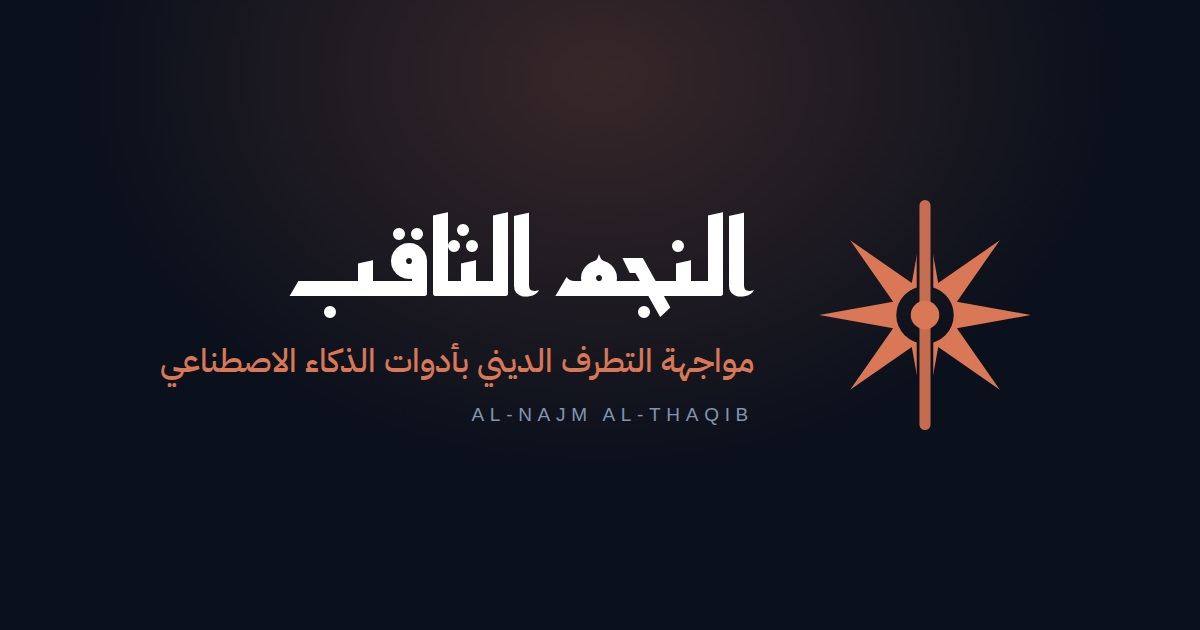
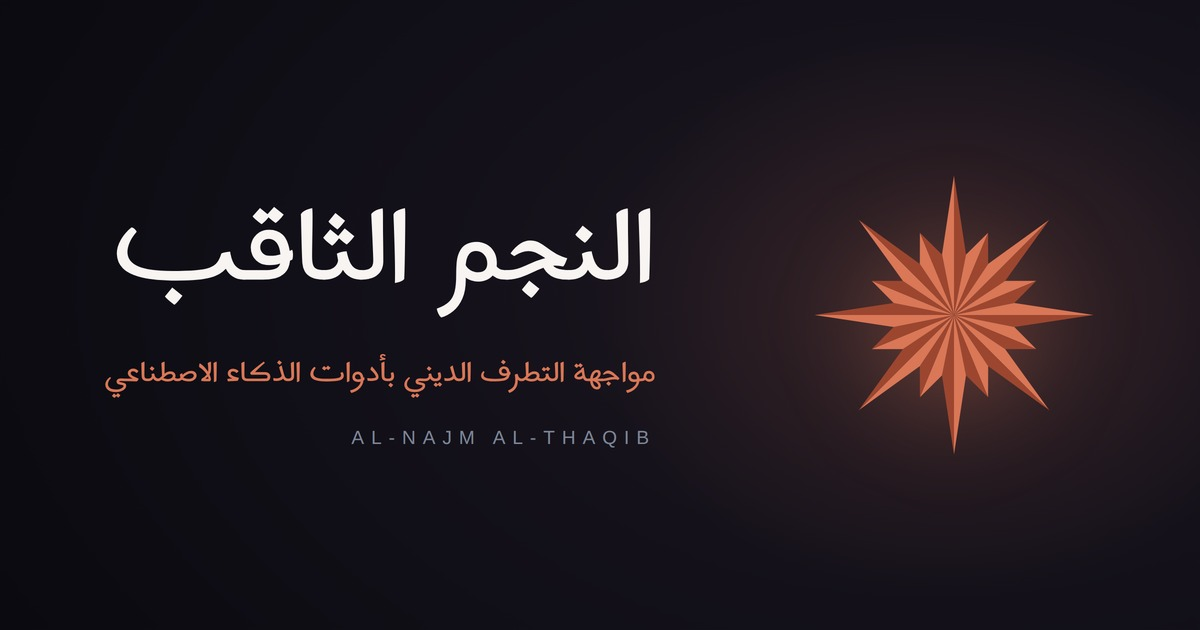
Add files via upload
تغيير الشعار والخط

diff --git a/index.html b/index.html
@@ -17,10 +17,11 @@
 <meta name="twitter:card" content="summary_large_image">
 <meta name="twitter:image" content="https://alibennor1996-bit.github.io/najm/najm-banner.jpg">
 <link rel="icon" href="favicon.svg" type="image/svg+xml">
+<link rel="alternate icon" href="favicon.ico" sizes="any">
 <link rel="apple-touch-icon" href="najm-favicon.png">
 <link rel="preconnect" href="https://fonts.googleapis.com">
 <link rel="preconnect" href="https://fonts.gstatic.com" crossorigin>
-<link rel="stylesheet" href="https://fonts.googleapis.com/css2?family=Reem+Kufi:wght@400;500;600;700&family=IBM+Plex+Sans+Arabic:wght@400;500;600&family=IBM+Plex+Sans:wght@400;500;600&display=swap">
+<link rel="stylesheet" href="https://fonts.googleapis.com/css2?family=Harmattan:wght@400;700&family=IBM+Plex+Sans+Arabic:wght@400;500;600&family=IBM+Plex+Sans:wght@400;500;600&display=swap">
 <style>
 :root{
  --ground:#F5F7FA; --surface:#FFFFFF; --surface-2:#EAEFF6;
@@ -56,7 +57,7 @@ svg{display:block}
 a{color:var(--accent)}
 button{font:inherit;cursor:pointer}
 :focus-visible{outline:2px solid var(--accent-bright);outline-offset:3px;border-radius:3px}
-h1,h2,h3,h4{font-family:"Reem Kufi","IBM Plex Sans",sans-serif;font-weight:600;text-wrap:balance;margin:0}
+h1,h2,h3,h4{font-family:"Harmattan","IBM Plex Sans",sans-serif;font-weight:600;text-wrap:balance;margin:0}
 body.lang-en h1,body.lang-en h2,body.lang-en h3,body.lang-en h4{font-family:"IBM Plex Sans",sans-serif;letter-spacing:-.012em}
 .wrap{max-width:1020px;margin:0 auto;padding:0 22px}
 .mark > path,.mark > rect,.mark > circle{fill:var(--accent-bright)}
@@ -64,7 +65,7 @@ body.lang-en h1,body.lang-en h2,body.lang-en h3,body.lang-en h4{font-family:"IBM
 .bar{position:sticky;top:0;z-index:40;background:color-mix(in srgb,var(--ground) 90%,transparent);backdrop-filter:blur(12px);border-bottom:1px solid var(--line)}
 .bar-in{max-width:1020px;margin:0 auto;padding:11px 22px;display:flex;align-items:center;gap:18px}
 .brand{display:flex;align-items:center;gap:9px;text-decoration:none;color:var(--ink);flex:0 0 auto}
-.brand b{font-family:"Reem Kufi",sans-serif;font-size:18px;font-weight:600}
+.brand b{font-family:"Harmattan",sans-serif;font-size:18px;font-weight:600}
 body.lang-en .brand b{font-family:"IBM Plex Sans",sans-serif;font-size:16px}
 .bar nav{display:flex;gap:2px;flex:1 1 auto;overflow-x:auto;scrollbar-width:none}
 .bar nav::-webkit-scrollbar{display:none}
@@ -99,13 +100,13 @@ section{padding:64px 0;border-bottom:1px solid var(--line);scroll-margin-top:60p
 
 .pillars{display:grid;gap:14px;grid-template-columns:repeat(auto-fit,minmax(280px,1fr));margin:26px 0 0}
 .pillar{background:var(--surface);border:1px solid var(--line);border-radius:2px;padding:22px}
-.pillar-n{font-family:"Reem Kufi",sans-serif;font-size:15px;color:var(--accent);display:block;margin-bottom:6px;font-weight:600}
+.pillar-n{font-family:"Harmattan",sans-serif;font-size:15px;color:var(--accent);display:block;margin-bottom:6px;font-weight:600}
 .pillar h3{font-size:19px;margin:0 0 9px}
 .pillar p{margin:0;font-size:14px;line-height:1.75;color:var(--ink-soft)}
 
 .steps{list-style:none;margin:26px 0 0;padding:0;display:grid;gap:2px}
 .step{display:flex;gap:16px;align-items:flex-start;background:var(--surface);border:1px solid var(--line);padding:18px 20px}
-.step-n{font-family:"Reem Kufi",sans-serif;font-size:22px;font-weight:700;color:var(--accent);flex:0 0 28px;line-height:1.3}
+.step-n{font-family:"Harmattan",sans-serif;font-size:22px;font-weight:700;color:var(--accent);flex:0 0 28px;line-height:1.3}
 .step h4{font-size:16px;margin:0 0 4px}
 .step p{margin:0;font-size:14px;color:var(--ink-soft);max-width:70ch}
 .crossref{margin:24px 0 0;padding:20px 22px;background:var(--surface);border:1px solid var(--line);
@@ -145,7 +146,7 @@ section{padding:64px 0;border-bottom:1px solid var(--line);scroll-margin-top:60p
 /* ---------- analyser (an-) ---------- */
 .an-tabs{display:flex;gap:6px;margin:24px 0 0;border-bottom:1px solid var(--line)}
 .an-tab{background:none;border:0;padding:9px 16px;font-size:14.5px;font-weight:500;color:var(--ink-faint);
- border-bottom:2px solid transparent;margin-bottom:-1px;font-family:"Reem Kufi",sans-serif}
+ border-bottom:2px solid transparent;margin-bottom:-1px;font-family:"Harmattan",sans-serif}
 body.lang-en .an-tab{font-family:"IBM Plex Sans",sans-serif}
 .an-tab[aria-selected="true"]{color:var(--ink);border-bottom-color:var(--accent-bright)}
 .an-panel[hidden]{display:none}
@@ -164,7 +165,7 @@ body.lang-en .an-tab{font-family:"IBM Plex Sans",sans-serif}
 .an-score{background:var(--surface);border:1px solid var(--line);border-radius:2px;padding:18px 20px;margin:0 0 14px}
 .an-top{display:flex;gap:14px;align-items:baseline;flex-wrap:wrap}
 .an-score h3{font-size:19px}
-.an-num{font-family:"Reem Kufi",sans-serif;font-size:34px;font-weight:700;color:var(--accent);line-height:1;font-variant-numeric:tabular-nums}
+.an-num{font-family:"Harmattan",sans-serif;font-size:34px;font-weight:700;color:var(--accent);line-height:1;font-variant-numeric:tabular-nums}
 .an-of{font-size:12.5px;color:var(--ink-faint)}
 .an-meter{margin:12px 0 0;height:7px;background:var(--surface-2);border-radius:99px;overflow:hidden}
 .an-meter i{display:block;height:100%;background:var(--accent-bright);border-radius:99px;transition:width .5s cubic-bezier(.2,.7,.3,1)}
@@ -203,10 +204,57 @@ footer{padding:34px 0 60px}
 </style>
 </head>
 <body class="lang-ar">
+<svg width="0" height="0" style="position:absolute" aria-hidden="true" focusable="false"><defs><symbol id="najm-mark" viewBox="0 0 512 512"><path fill="var(--mk-a,#D97757)" d="M256.00,18.00 L235.52,153.02 L256.00,256.00 Z"/>
+    <path fill="var(--mk-b,#AF5029)" d="M256.00,18.00 L256.00,256.00 L276.48,153.02 Z"/>
+    <path fill="var(--mk-a,#D97757)" d="M314.17,115.57 L276.48,153.02 L256.00,256.00 Z"/>
+    <path fill="var(--mk-b,#AF5029)" d="M314.17,115.57 L256.00,256.00 L314.33,168.70 Z"/>
+    <path fill="var(--mk-a,#D97757)" d="M418.63,93.37 L314.33,168.70 L256.00,256.00 Z"/>
+    <path fill="var(--mk-b,#AF5029)" d="M418.63,93.37 L256.00,256.00 L343.30,197.67 Z"/>
+    <path fill="var(--mk-a,#D97757)" d="M396.43,197.83 L343.30,197.67 L256.00,256.00 Z"/>
+    <path fill="var(--mk-b,#AF5029)" d="M396.43,197.83 L256.00,256.00 L358.98,235.52 Z"/>
+    <path fill="var(--mk-a,#D97757)" d="M494.00,256.00 L358.98,235.52 L256.00,256.00 Z"/>
+    <path fill="var(--mk-b,#AF5029)" d="M494.00,256.00 L256.00,256.00 L358.98,276.48 Z"/>
+    <path fill="var(--mk-a,#D97757)" d="M396.43,314.17 L358.98,276.48 L256.00,256.00 Z"/>
+    <path fill="var(--mk-b,#AF5029)" d="M396.43,314.17 L256.00,256.00 L343.30,314.33 Z"/>
+    <path fill="var(--mk-a,#D97757)" d="M418.63,418.63 L343.30,314.33 L256.00,256.00 Z"/>
+    <path fill="var(--mk-b,#AF5029)" d="M418.63,418.63 L256.00,256.00 L314.33,343.30 Z"/>
+    <path fill="var(--mk-a,#D97757)" d="M314.17,396.43 L314.33,343.30 L256.00,256.00 Z"/>
+    <path fill="var(--mk-b,#AF5029)" d="M314.17,396.43 L256.00,256.00 L276.48,358.98 Z"/>
+    <path fill="var(--mk-a,#D97757)" d="M256.00,494.00 L276.48,358.98 L256.00,256.00 Z"/>
+    <path fill="var(--mk-b,#AF5029)" d="M256.00,494.00 L256.00,256.00 L235.52,358.98 Z"/>
+    <path fill="var(--mk-a,#D97757)" d="M197.83,396.43 L235.52,358.98 L256.00,256.00 Z"/>
+    <path fill="var(--mk-b,#AF5029)" d="M197.83,396.43 L256.00,256.00 L197.67,343.30 Z"/>
+    <path fill="var(--mk-a,#D97757)" d="M93.37,418.63 L197.67,343.30 L256.00,256.00 Z"/>
+    <path fill="var(--mk-b,#AF5029)" d="M93.37,418.63 L256.00,256.00 L168.70,314.33 Z"/>
+    <path fill="var(--mk-a,#D97757)" d="M115.57,314.17 L168.70,314.33 L256.00,256.00 Z"/>
+    <path fill="var(--mk-b,#AF5029)" d="M115.57,314.17 L256.00,256.00 L153.02,276.48 Z"/>
+    <path fill="var(--mk-a,#D97757)" d="M18.00,256.00 L153.02,276.48 L256.00,256.00 Z"/>
+    <path fill="var(--mk-b,#AF5029)" d="M18.00,256.00 L256.00,256.00 L153.02,235.52 Z"/>
+    <path fill="var(--mk-a,#D97757)" d="M115.57,197.83 L153.02,235.52 L256.00,256.00 Z"/>
+    <path fill="var(--mk-b,#AF5029)" d="M115.57,197.83 L256.00,256.00 L168.70,197.67 Z"/>
+    <path fill="var(--mk-a,#D97757)" d="M93.37,93.37 L168.70,197.67 L256.00,256.00 Z"/>
+    <path fill="var(--mk-b,#AF5029)" d="M93.37,93.37 L256.00,256.00 L197.67,168.70 Z"/>
+    <path fill="var(--mk-a,#D97757)" d="M197.83,115.57 L197.67,168.70 L256.00,256.00 Z"/>
+    <path fill="var(--mk-b,#AF5029)" d="M197.83,115.57 L256.00,256.00 L235.52,153.02 Z"/></symbol><symbol id="najm-mark-sm" viewBox="0 0 512 512"><path fill="var(--mk-a,#D97757)" d="M256.00,12.00 L223.09,176.55 L256.00,256.00 Z"/>
+    <path fill="var(--mk-b,#AF5029)" d="M256.00,12.00 L256.00,256.00 L288.91,176.55 Z"/>
+    <path fill="var(--mk-a,#D97757)" d="M394.59,117.41 L288.91,176.55 L256.00,256.00 Z"/>
+    <path fill="var(--mk-b,#AF5029)" d="M394.59,117.41 L256.00,256.00 L335.45,223.09 Z"/>
+    <path fill="var(--mk-a,#D97757)" d="M500.00,256.00 L335.45,223.09 L256.00,256.00 Z"/>
+    <path fill="var(--mk-b,#AF5029)" d="M500.00,256.00 L256.00,256.00 L335.45,288.91 Z"/>
+    <path fill="var(--mk-a,#D97757)" d="M394.59,394.59 L335.45,288.91 L256.00,256.00 Z"/>
+    <path fill="var(--mk-b,#AF5029)" d="M394.59,394.59 L256.00,256.00 L288.91,335.45 Z"/>
+    <path fill="var(--mk-a,#D97757)" d="M256.00,500.00 L288.91,335.45 L256.00,256.00 Z"/>
+    <path fill="var(--mk-b,#AF5029)" d="M256.00,500.00 L256.00,256.00 L223.09,335.45 Z"/>
+    <path fill="var(--mk-a,#D97757)" d="M117.41,394.59 L223.09,335.45 L256.00,256.00 Z"/>
+    <path fill="var(--mk-b,#AF5029)" d="M117.41,394.59 L256.00,256.00 L176.55,288.91 Z"/>
+    <path fill="var(--mk-a,#D97757)" d="M12.00,256.00 L176.55,288.91 L256.00,256.00 Z"/>
+    <path fill="var(--mk-b,#AF5029)" d="M12.00,256.00 L256.00,256.00 L176.55,223.09 Z"/>
+    <path fill="var(--mk-a,#D97757)" d="M117.41,117.41 L176.55,223.09 L256.00,256.00 Z"/>
+    <path fill="var(--mk-b,#AF5029)" d="M117.41,117.41 L256.00,256.00 L223.09,176.55 Z"/></symbol></defs></svg>
 
 <div class="bar">
   <div class="bar-in">
-    <a class="brand" href="#top"><svg class="mark" viewBox="0 0 100 100" width="26" height="26" aria-hidden="true"><defs><mask id="m2"><rect width="100" height="100" fill="white"/><rect x="46.4" y="0" width="7.2" height="100" rx="3.6" fill="black"/><circle cx="50" cy="50" r="12.5" fill="black"/></mask></defs><path d="M 50.00 4.00 L 55.74 36.14 L 82.53 17.47 L 63.86 44.26 L 96.00 50.00 L 63.86 55.74 L 82.53 82.53 L 55.74 63.86 L 50.00 96.00 L 44.26 63.86 L 17.47 82.53 L 36.14 55.74 L 4.00 50.00 L 36.14 44.26 L 17.47 17.47 L 44.26 36.14 Z" fill="var(--lg)" mask="url(#m2)"/><rect x="47.6" y="0" width="4.8" height="100" rx="2.4" fill="var(--lg)" opacity="0.9"/><circle cx="50" cy="50" r="6.2" fill="var(--lg)"/></svg><b class="ar">النجم الثاقب</b><b class="en">Al-Najm Al-Thaqib</b></a>
+    <a class="brand" href="#top"><svg class="mark" viewBox="0 0 512 512" width="26" height="26" aria-hidden="true"><use href="#najm-mark-sm"/></svg><b class="ar">النجم الثاقب</b><b class="en">Al-Najm Al-Thaqib</b></a>
     <nav><a href="#problem"><span class="ar">المسألة</span><span class="en">The Problem</span></a><a href="#pillars"><span class="ar">الأركان</span><span class="en">Pillars</span></a><a href="#how"><span class="ar">كيف يعمل</span><span class="en">Method</span></a><a href="#marsad"><span class="ar">المرصد</span><span class="en">Try it</span></a><a href="#limits"><span class="ar">حدودنا</span><span class="en">Boundaries</span></a><a href="#roadmap"><span class="ar">خارطة الطريق</span><span class="en">Roadmap</span></a><a href="#support"><span class="ar">الدعم</span><span class="en">Support</span></a><a href="takfir.html"><span class="ar">دعاوى التكفير</span><span class="en">Takfīr claims</span></a></nav>
     <button class="langbtn" type="button" id="lang"><span class="ar">English</span><span class="en">العربية</span></button>
   </div>
@@ -214,7 +262,7 @@ footer{padding:34px 0 60px}
 
 <header class="hero" id="top">
   <div class="hero-in">
-    <svg class="mark" viewBox="0 0 100 100" width="78" height="78" aria-hidden="true"><defs><mask id="m2"><rect width="100" height="100" fill="white"/><rect x="46.4" y="0" width="7.2" height="100" rx="3.6" fill="black"/><circle cx="50" cy="50" r="12.5" fill="black"/></mask></defs><path d="M 50.00 4.00 L 55.74 36.14 L 82.53 17.47 L 63.86 44.26 L 96.00 50.00 L 63.86 55.74 L 82.53 82.53 L 55.74 63.86 L 50.00 96.00 L 44.26 63.86 L 17.47 82.53 L 36.14 55.74 L 4.00 50.00 L 36.14 44.26 L 17.47 17.47 L 44.26 36.14 Z" fill="var(--lg)" mask="url(#m2)"/><rect x="47.6" y="0" width="4.8" height="100" rx="2.4" fill="var(--lg)" opacity="0.9"/><circle cx="50" cy="50" r="6.2" fill="var(--lg)"/></svg>
+    <svg class="mark" viewBox="0 0 512 512" width="78" height="78" aria-hidden="true"><use href="#najm-mark"/></svg>
     <h1 class="ar">النجم الثاقب</h1><h1 class="en">Al-Najm Al-Thaqib</h1>
     <p class="tag ar">مواجهة التطرف الديني بأدوات الذكاء الاصطناعي</p><p class="tag en">Countering religious extremism with AI tools</p>
     <p class="lede ar">مبادرة عربية مستقلة تدرس <em>كيف</em> يُصاغ خطاب الاستقطاب — لا صحّة معتقداته — وتحوّل ما تكشفه إلى أدوات تفكير نقدي بلغة الجمهور المستهدَف نفسه.</p><p class="lede en">An independent Arabic-language initiative that studies <em>how</em> radicalising rhetoric is constructed — not whether its beliefs are true — and turns those findings into critical-thinking tools written in the same register as the audience being targeted.</p>
@@ -375,7 +423,7 @@ footer{padding:34px 0 60px}
 </div></section>
 
 <footer><div class="wrap foot-in">
-  <span class="foot-brand"><svg class="mark" viewBox="0 0 100 100" width="20" height="20" aria-hidden="true"><defs><mask id="m2"><rect width="100" height="100" fill="white"/><rect x="46.4" y="0" width="7.2" height="100" rx="3.6" fill="black"/><circle cx="50" cy="50" r="12.5" fill="black"/></mask></defs><path d="M 50.00 4.00 L 55.74 36.14 L 82.53 17.47 L 63.86 44.26 L 96.00 50.00 L 63.86 55.74 L 82.53 82.53 L 55.74 63.86 L 50.00 96.00 L 44.26 63.86 L 17.47 82.53 L 36.14 55.74 L 4.00 50.00 L 36.14 44.26 L 17.47 17.47 L 44.26 36.14 Z" fill="var(--lg)" mask="url(#m2)"/><rect x="47.6" y="0" width="4.8" height="100" rx="2.4" fill="var(--lg)" opacity="0.9"/><circle cx="50" cy="50" r="6.2" fill="var(--lg)"/></svg><span class="ar">النجم الثاقب — مبادرة مستقلة</span><span class="en">Al-Najm Al-Thaqib — an independent initiative</span></span>
+  <span class="foot-brand"><svg class="mark" viewBox="0 0 512 512" width="20" height="20" aria-hidden="true"><use href="#najm-mark-sm"/></svg><span class="ar">النجم الثاقب — مبادرة مستقلة</span><span class="en">Al-Najm Al-Thaqib — an independent initiative</span></span>
   <span class="ar">النسخة الأولى · قيد التطوير</span><span class="en">First release · in development</span>
 </div></footer>
 

diff --git a/takfir.html b/takfir.html
@@ -13,9 +13,10 @@
 <meta property="og:image" content="https://alibennor1996-bit.github.io/najm/najm-banner.jpg">
 <meta name="twitter:card" content="summary_large_image">
 <link rel="icon" href="favicon.svg" type="image/svg+xml">
+<link rel="alternate icon" href="favicon.ico" sizes="any">
 <link rel="preconnect" href="https://fonts.googleapis.com">
 <link rel="preconnect" href="https://fonts.gstatic.com" crossorigin>
-<link rel="stylesheet" href="https://fonts.googleapis.com/css2?family=Reem+Kufi:wght@400;500;600;700&family=IBM+Plex+Sans+Arabic:wght@400;500;600&family=IBM+Plex+Sans:wght@400;500;600&display=swap">
+<link rel="stylesheet" href="https://fonts.googleapis.com/css2?family=Harmattan:wght@400;700&family=IBM+Plex+Sans+Arabic:wght@400;500;600&family=IBM+Plex+Sans:wght@400;500;600&display=swap">
 <style>
 :root{--ground:#F5F7FA;--surface:#FFFFFF;--surface-2:#EAEFF6;--ink:#0F1926;--ink-soft:#4A586C;--ink-faint:#78849A;
 --accent:#AF5029;--accent-bright:#D97757;--accent-tint:#F7E7DE;--ok:#146B5F;--ok-t:#DEEEEA;--dis:#9B3B2E;--dis-t:#F6E4E0;
@@ -35,13 +36,13 @@ body.lang-ar .en{display:none!important}
 body.lang-en .ar{display:none!important}
 svg{display:block}a{color:var(--accent)}button{font:inherit;cursor:pointer}
 :focus-visible{outline:2px solid var(--accent-bright);outline-offset:3px;border-radius:3px}
-h1,h2,h3{font-family:"Reem Kufi","IBM Plex Sans",sans-serif;font-weight:600;margin:0;text-wrap:balance}
+h1,h2,h3{font-family:"Harmattan","IBM Plex Sans",sans-serif;font-weight:600;margin:0;text-wrap:balance}
 body.lang-en h1,body.lang-en h2,body.lang-en h3{font-family:"IBM Plex Sans",sans-serif;letter-spacing:-.012em}
 .wrap{max-width:820px;margin:0 auto;padding:0 22px}
 .bar{position:sticky;top:0;z-index:40;background:color-mix(in srgb,var(--ground) 90%,transparent);backdrop-filter:blur(12px);border-bottom:1px solid var(--line)}
 .bar-in{max-width:820px;margin:0 auto;padding:11px 22px;display:flex;align-items:center;gap:16px}
 .brand{display:flex;align-items:center;gap:9px;text-decoration:none;color:var(--ink);flex:0 0 auto}
-.brand b{font-family:"Reem Kufi",sans-serif;font-size:17px}
+.brand b{font-family:"Harmattan",sans-serif;font-size:17px}
 .brand svg path,.brand svg rect,.brand svg circle{fill:var(--accent-bright)}
 .bar .sp{flex:1 1 auto}
 .langbtn{font-size:12.5px;font-weight:500;padding:5px 13px;border-radius:999px;border:1px solid var(--line);background:var(--surface);color:var(--ink-soft)}
@@ -60,7 +61,7 @@ body.lang-en h1,body.lang-en h2,body.lang-en h3{font-family:"IBM Plex Sans",sans
 .toc a{font-size:12.5px;text-decoration:none;color:var(--ink-soft);background:var(--surface);border:1px solid var(--line);border-radius:999px;padding:5px 13px}
 .toc a:hover{border-color:var(--accent-bright);color:var(--ink)}
 .case{display:flex;gap:16px;margin:38px 0 0;padding-top:30px;border-top:1px solid var(--line)}
-.cnum{font-family:"Reem Kufi",sans-serif;font-size:40px;font-weight:700;color:var(--accent);line-height:1;flex:0 0 auto;opacity:.85}
+.cnum{font-family:"Harmattan",sans-serif;font-size:40px;font-weight:700;color:var(--accent);line-height:1;flex:0 0 auto;opacity:.85}
 .cbody{flex:1 1 auto;min-width:0}
 .case h3{font-size:clamp(19px,3.2vw,24px);line-height:1.35;margin:0 0 12px}
 .claim{margin:0;padding:13px 16px;background:var(--surface-2);border-radius:2px;font-size:15px;color:var(--ink);font-weight:500}
@@ -89,9 +90,56 @@ footer.foot p{margin:0 0 9px;max-width:74ch}
 </style>
 </head>
 <body class="lang-ar">
+<svg width="0" height="0" style="position:absolute" aria-hidden="true" focusable="false"><defs><symbol id="najm-mark" viewBox="0 0 512 512"><path fill="var(--mk-a,#D97757)" d="M256.00,18.00 L235.52,153.02 L256.00,256.00 Z"/>
+    <path fill="var(--mk-b,#AF5029)" d="M256.00,18.00 L256.00,256.00 L276.48,153.02 Z"/>
+    <path fill="var(--mk-a,#D97757)" d="M314.17,115.57 L276.48,153.02 L256.00,256.00 Z"/>
+    <path fill="var(--mk-b,#AF5029)" d="M314.17,115.57 L256.00,256.00 L314.33,168.70 Z"/>
+    <path fill="var(--mk-a,#D97757)" d="M418.63,93.37 L314.33,168.70 L256.00,256.00 Z"/>
+    <path fill="var(--mk-b,#AF5029)" d="M418.63,93.37 L256.00,256.00 L343.30,197.67 Z"/>
+    <path fill="var(--mk-a,#D97757)" d="M396.43,197.83 L343.30,197.67 L256.00,256.00 Z"/>
+    <path fill="var(--mk-b,#AF5029)" d="M396.43,197.83 L256.00,256.00 L358.98,235.52 Z"/>
+    <path fill="var(--mk-a,#D97757)" d="M494.00,256.00 L358.98,235.52 L256.00,256.00 Z"/>
+    <path fill="var(--mk-b,#AF5029)" d="M494.00,256.00 L256.00,256.00 L358.98,276.48 Z"/>
+    <path fill="var(--mk-a,#D97757)" d="M396.43,314.17 L358.98,276.48 L256.00,256.00 Z"/>
+    <path fill="var(--mk-b,#AF5029)" d="M396.43,314.17 L256.00,256.00 L343.30,314.33 Z"/>
+    <path fill="var(--mk-a,#D97757)" d="M418.63,418.63 L343.30,314.33 L256.00,256.00 Z"/>
+    <path fill="var(--mk-b,#AF5029)" d="M418.63,418.63 L256.00,256.00 L314.33,343.30 Z"/>
+    <path fill="var(--mk-a,#D97757)" d="M314.17,396.43 L314.33,343.30 L256.00,256.00 Z"/>
+    <path fill="var(--mk-b,#AF5029)" d="M314.17,396.43 L256.00,256.00 L276.48,358.98 Z"/>
+    <path fill="var(--mk-a,#D97757)" d="M256.00,494.00 L276.48,358.98 L256.00,256.00 Z"/>
+    <path fill="var(--mk-b,#AF5029)" d="M256.00,494.00 L256.00,256.00 L235.52,358.98 Z"/>
+    <path fill="var(--mk-a,#D97757)" d="M197.83,396.43 L235.52,358.98 L256.00,256.00 Z"/>
+    <path fill="var(--mk-b,#AF5029)" d="M197.83,396.43 L256.00,256.00 L197.67,343.30 Z"/>
+    <path fill="var(--mk-a,#D97757)" d="M93.37,418.63 L197.67,343.30 L256.00,256.00 Z"/>
+    <path fill="var(--mk-b,#AF5029)" d="M93.37,418.63 L256.00,256.00 L168.70,314.33 Z"/>
+    <path fill="var(--mk-a,#D97757)" d="M115.57,314.17 L168.70,314.33 L256.00,256.00 Z"/>
+    <path fill="var(--mk-b,#AF5029)" d="M115.57,314.17 L256.00,256.00 L153.02,276.48 Z"/>
+    <path fill="var(--mk-a,#D97757)" d="M18.00,256.00 L153.02,276.48 L256.00,256.00 Z"/>
+    <path fill="var(--mk-b,#AF5029)" d="M18.00,256.00 L256.00,256.00 L153.02,235.52 Z"/>
+    <path fill="var(--mk-a,#D97757)" d="M115.57,197.83 L153.02,235.52 L256.00,256.00 Z"/>
+    <path fill="var(--mk-b,#AF5029)" d="M115.57,197.83 L256.00,256.00 L168.70,197.67 Z"/>
+    <path fill="var(--mk-a,#D97757)" d="M93.37,93.37 L168.70,197.67 L256.00,256.00 Z"/>
+    <path fill="var(--mk-b,#AF5029)" d="M93.37,93.37 L256.00,256.00 L197.67,168.70 Z"/>
+    <path fill="var(--mk-a,#D97757)" d="M197.83,115.57 L197.67,168.70 L256.00,256.00 Z"/>
+    <path fill="var(--mk-b,#AF5029)" d="M197.83,115.57 L256.00,256.00 L235.52,153.02 Z"/></symbol><symbol id="najm-mark-sm" viewBox="0 0 512 512"><path fill="var(--mk-a,#D97757)" d="M256.00,12.00 L223.09,176.55 L256.00,256.00 Z"/>
+    <path fill="var(--mk-b,#AF5029)" d="M256.00,12.00 L256.00,256.00 L288.91,176.55 Z"/>
+    <path fill="var(--mk-a,#D97757)" d="M394.59,117.41 L288.91,176.55 L256.00,256.00 Z"/>
+    <path fill="var(--mk-b,#AF5029)" d="M394.59,117.41 L256.00,256.00 L335.45,223.09 Z"/>
+    <path fill="var(--mk-a,#D97757)" d="M500.00,256.00 L335.45,223.09 L256.00,256.00 Z"/>
+    <path fill="var(--mk-b,#AF5029)" d="M500.00,256.00 L256.00,256.00 L335.45,288.91 Z"/>
+    <path fill="var(--mk-a,#D97757)" d="M394.59,394.59 L335.45,288.91 L256.00,256.00 Z"/>
+    <path fill="var(--mk-b,#AF5029)" d="M394.59,394.59 L256.00,256.00 L288.91,335.45 Z"/>
+    <path fill="var(--mk-a,#D97757)" d="M256.00,500.00 L288.91,335.45 L256.00,256.00 Z"/>
+    <path fill="var(--mk-b,#AF5029)" d="M256.00,500.00 L256.00,256.00 L223.09,335.45 Z"/>
+    <path fill="var(--mk-a,#D97757)" d="M117.41,394.59 L223.09,335.45 L256.00,256.00 Z"/>
+    <path fill="var(--mk-b,#AF5029)" d="M117.41,394.59 L256.00,256.00 L176.55,288.91 Z"/>
+    <path fill="var(--mk-a,#D97757)" d="M12.00,256.00 L176.55,288.91 L256.00,256.00 Z"/>
+    <path fill="var(--mk-b,#AF5029)" d="M12.00,256.00 L256.00,256.00 L176.55,223.09 Z"/>
+    <path fill="var(--mk-a,#D97757)" d="M117.41,117.41 L176.55,223.09 L256.00,256.00 Z"/>
+    <path fill="var(--mk-b,#AF5029)" d="M117.41,117.41 L256.00,256.00 L223.09,176.55 Z"/></symbol></defs></svg>
 
 <div class="bar"><div class="bar-in">
-  <a class="brand" href="index.html"><svg viewBox="0 0 100 100" width="24" height="24" aria-hidden="true"><defs><mask id="m2"><rect width="100" height="100" fill="white"/><rect x="46.4" y="0" width="7.2" height="100" rx="3.6" fill="black"/><circle cx="50" cy="50" r="12.5" fill="black"/></mask></defs><path d="M 50.00 4.00 L 55.74 36.14 L 82.53 17.47 L 63.86 44.26 L 96.00 50.00 L 63.86 55.74 L 82.53 82.53 L 55.74 63.86 L 50.00 96.00 L 44.26 63.86 L 17.47 82.53 L 36.14 55.74 L 4.00 50.00 L 36.14 44.26 L 17.47 17.47 L 44.26 36.14 Z" fill="var(--lg)" mask="url(#m2)"/><rect x="47.6" y="0" width="4.8" height="100" rx="2.4" fill="var(--lg)" opacity="0.9"/><circle cx="50" cy="50" r="6.2" fill="var(--lg)"/></svg><b class="ar">النجم الثاقب</b><b class="en">Al-Najm Al-Thaqib</b></a>
+  <a class="brand" href="index.html"><svg viewBox="0 0 512 512" width="24" height="24" aria-hidden="true"><use href="#najm-mark-sm"/></svg><b class="ar">النجم الثاقب</b><b class="en">Al-Najm Al-Thaqib</b></a>
   <span class="sp"></span>
   <button class="langbtn" type="button" id="lang"><span class="ar">English</span><span class="en">العربية</span></button>
 </div></div>
